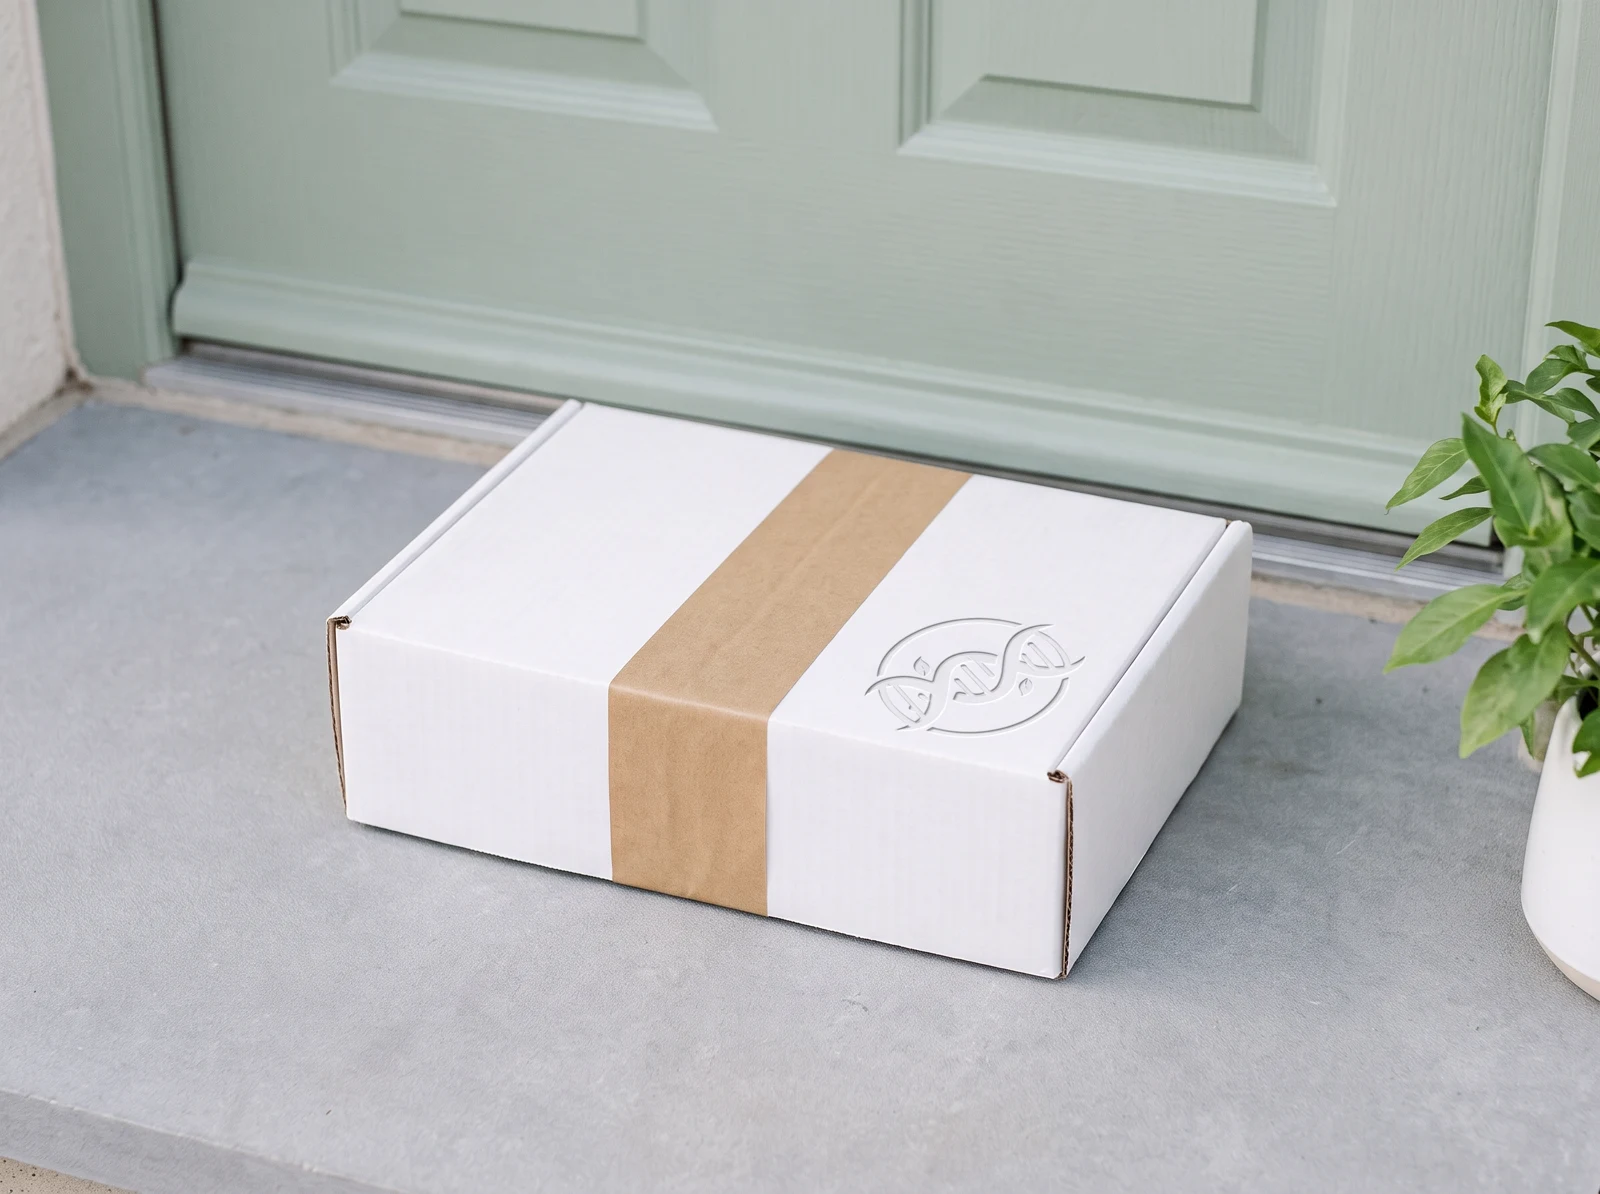
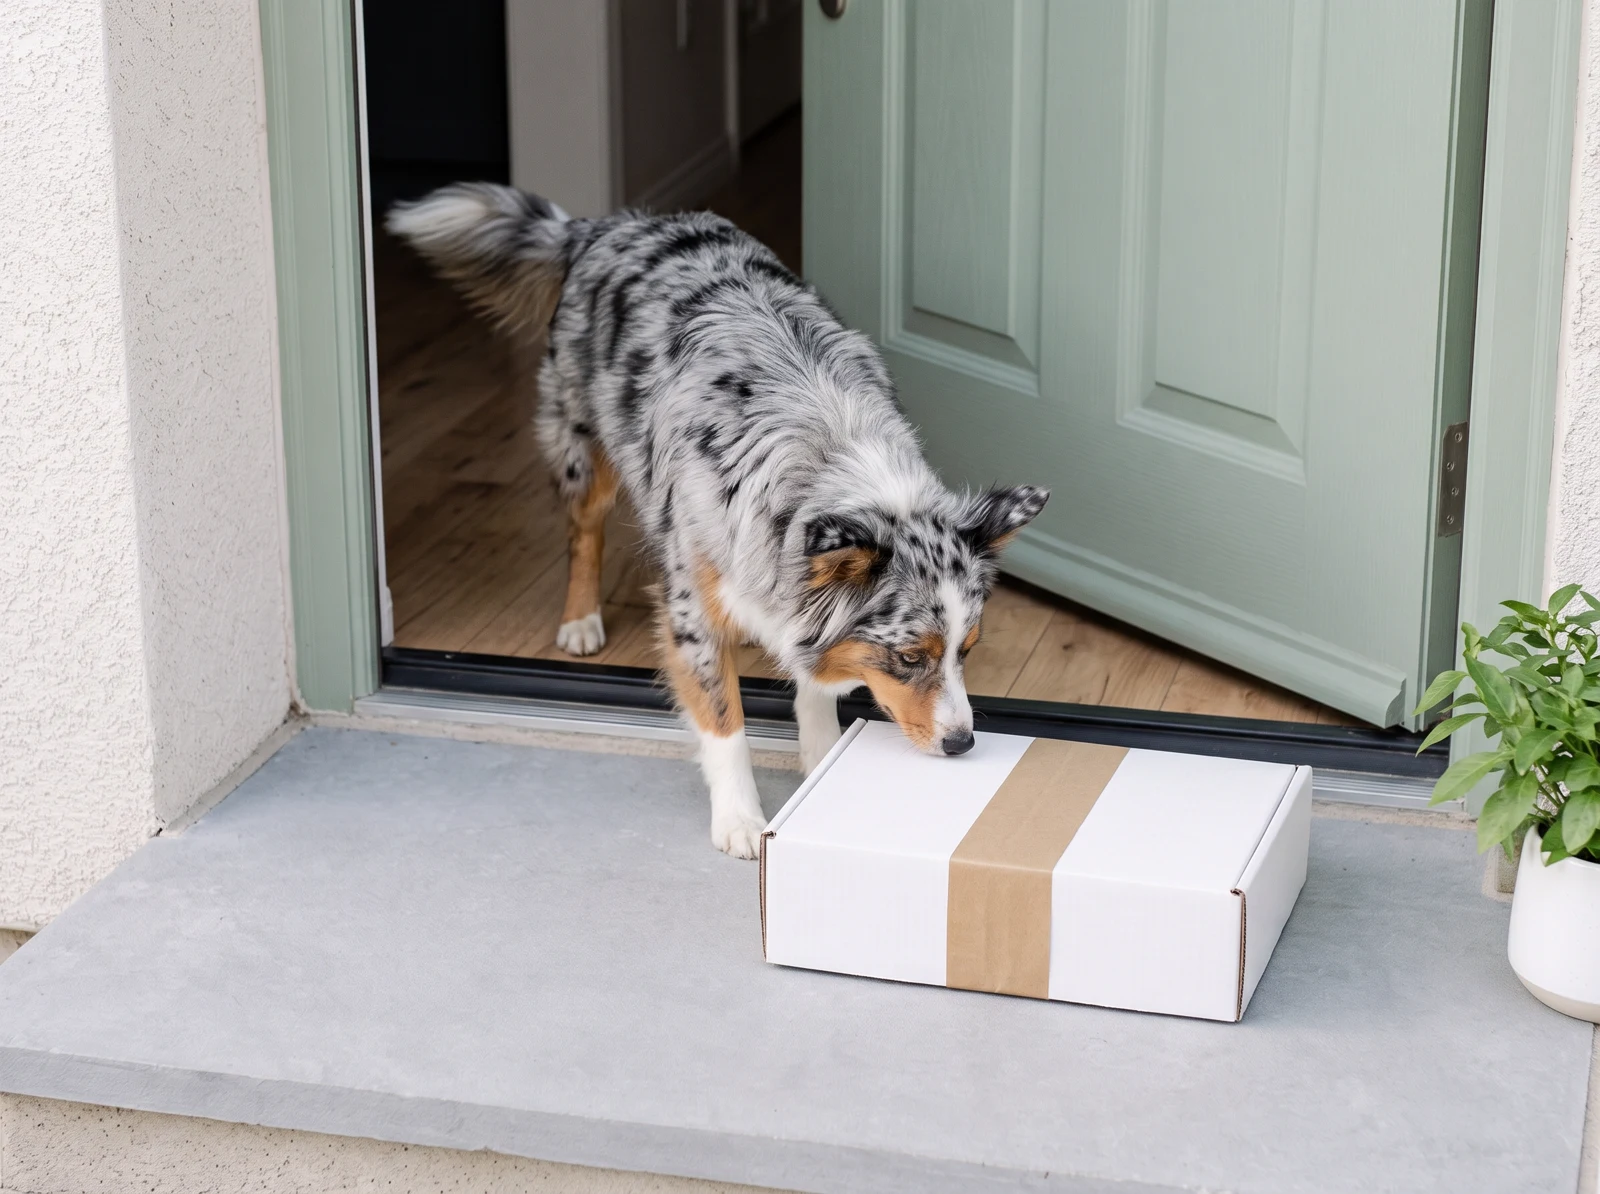
Delivery step: plain unbranded box with the dog, replacing the AI-drawn mark

diff --git a/public/index.html b/public/index.html
@@ -254,7 +254,7 @@
             <a class="step-link" href="#provider">Meet the clinicians</a>
           </li>
           <li class="step">
-            <figure class="step-photo"><img src="images/lifestyle/step-delivery.webp" width="1600" height="1194" alt="A sealed white shipping box on a front doorstep" loading="lazy" /></figure>
+            <figure class="step-photo"><img src="images/lifestyle/step-delivery.webp" width="1600" height="1194" alt="A dog sniffing a plain shipping box on the front step" loading="lazy" /></figure>
             <div class="step-num">3</div>
             <h3>Pharmacy fulfillment</h3>
             <p>If prescribed, a licensed 503A compounding pharmacy prepares your medication and ships it to your door. For the semaglutide and tirzepatide programs, baseline labs are ordered at a national lab at no cost to you.</p>

diff --git a/docs/gemini-prompts.md b/docs/gemini-prompts.md
@@ -83,10 +83,10 @@ Photoreal candid photograph, horizontal 4 by 3. A woman in her early forties sit
 
 ## 9. Delivery, save as `step-delivery.png`, folder `lifestyle`
 
-Rewritten Nov 11 2026 after three rounds with Dourado: the first result read as a stock photo, the second as a gift. Attach `public/logo-mark.png`, the helix mark. The brand shows only as a blind-embossed mark with no words, because the real shipment comes from the pharmacy and patients expect discreet packaging.
+Final version Nov 11 2026. Earlier tries read as a stock photo, then a gift, then carried an AI-drawn Velacore mark that vc-reviewer blocked: the real shipment comes from the pharmacy, so the box stays plain. The dog ties this step to the walk photo.
 
 ```
-Photoreal photograph, horizontal 4 by 3, bright, airy, clean wellness brand look: cool natural morning daylight, white, light gray and soft mint tones, no warm orange or golden light. A flat white corrugated e-commerce mailer box with a tuck-in front flap, about 12 by 9 by 4 inches, fluted cardboard visible along its cut edges, sits on a smooth light gray stone front step just in front of a front door painted soft sage green, with a small white planter with fresh green leaves at the edge of the frame. The box is sealed with ordinary brown kraft packing tape, one neat strip across the front flap and over the top, plain with no printing. On the box top near the right front corner, the attached emblem is blind-debossed into the white board, about 2.5 inches across, pressed firmly with crisp edges, a soft shadow along its upper edges and a gentle highlight along its lower edges, white on white with no ink. A shipping label is on the far side of the box, out of view. Seen from a standing person's view looking down at the step, as if they just opened the door and found it. Soft shadows, gentle depth of field, true-to-life colors. No doormat, no words, letters, numbers or logos anywhere except the embossed emblem. No hands, no people, no ribbon, no gift wrap.
+Photoreal candid photograph, horizontal 4 by 3, like a real moment someone snapped on their phone, not a stock or studio image. A plain white corrugated mailer box, about 12 by 9 by 4 inches, sealed with one strip of ordinary brown kraft packing tape, sits on a light gray stone front step just outside an open front door painted soft sage green. A blue merle Australian shepherd, gray, black and white speckled coat with copper markings on the face, has just stepped out of the doorway and is curiously sniffing the corner of the box, ears up, tail a blur. Seen from slightly above and to the side, natural and a little off-center, with part of the doorframe and a small white planter with green leaves at the edge of the frame. Bright cool morning daylight, soft shadows, true-to-life colors, white, light gray and soft mint tones. No shipping label visible, no words, letters, numbers, logos or brand marks anywhere, no people, no hands.
 ```
 
 ## 10. Walk outdoors, save as `wellness.png`, folder `lifestyle`
